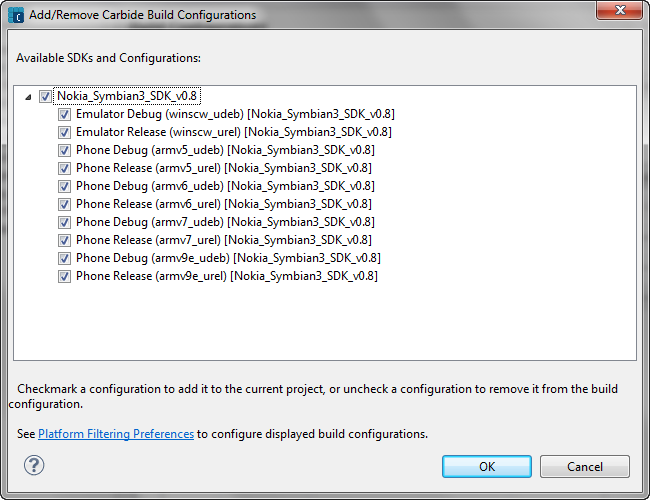
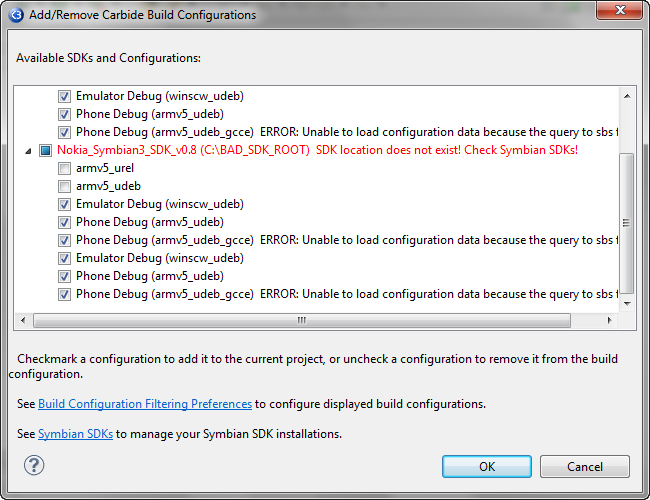
BUG 11531 - update to build configuration items --DRAFT--

diff --git a/core/com.nokia.carbide.cpp.doc.user/html/tasks/projects/prj_new_build_config.htm b/core/com.nokia.carbide.cpp.doc.user/html/tasks/projects/prj_new_build_config.htm
@@ -6,25 +6,60 @@
 <meta name="LASTUPDATED" content="06/17/05 11:09:43" />
 <title>Adding/Removing Build Configurations</title>
 <link rel="StyleSheet" href="../../../book.css" type="text/css"/>
+<style type="text/css">
+<!--
+.style1 {
+	color: #EE0000;
+	font-weight: bold;
+}
+-->
+</style>
 </head>
 <body >
 <h2>Adding/Removing Build Configurations</h2>
-<p>Use the <b>Properties for &lt;<em>project_name</em>&gt;</b> window to manage the active or build configurations associated with a project. In the <b>Active Configuration</b> group you can select which build configuration is current active as well as choose which build configurations appear in the Build Configurations sub-menu as choices. </p>
+<p>Use the <b>Add/Remove Carbide Build Configurations </b>dialog  to manage the build configurations associated with a project. The choices presented in this dialog are the result of installed <a href="../../reference/pref_carb_symbian_sdk.htm">Symbian SDKs</a> and the variant builds associated with them as chosen in the <a href="../sdks/sdk_platform_filter.htm">Configuration Filtering Preferences</a> panel.</p>
 <div class="step">
   <h4>Adding/Removing a Build Configuration </h4>
   <ol>
-    <li>Open Carbide Build Configuration panel in the project's Properties window
-      <p>Select the <b>Project &gt; Properties</b> menu item or right-click the project name in the <a href="../../reference/view_proj_explorer.htm">Project Explorer</a> view, then select <b>Properties</b>. The project <b>Properties for <em>&lt;project_name&gt;</em></b> window appears. Then select Carbide Build Configurations. </p>    
-      <p align="center"><img src="images/panel_active_config.png" width="801" height="350" alt=""/></p>
-      <p class="figure">Figure 1 - Active Configuration group in project Properties window </p></li>
-    <li>Click Manage... in the Active Configuration group (Figure 1)
-      <p>The <b>Add/Remove Carbide Build Configuration </b> window appears (Figure 2). Use the <b>Add/Remove Carbide Build Configuration</b> window to manage the build configurations that appear on the Build Configurations sub-menu for the current project. You can also  click the <b>Manage configurations for the current project</b> icon (<img src="images/icon_manage_project_configs.png" width="16" height="16" align="absmiddle">) on the toolbar to open this dialog. </p>
+    <li>With a project selected in the Project Explorer view choose one of the following to open the <strong>Add/Remove Carbide Build Configuration</strong> window:<br>
+        <br>
     </li>
-    </ol>
+      <table width="800" border="0" cellpadding="2" cellspacing="0">
+          <tr valign="top">
+              <th width="221" class="Cell"><div align="left">From the ...</div></th>
+              <th width="584" class="Cell"><div align="left">Do the following...</div></th>
+          </tr>
+          <tr valign="top">
+              <td class="Cell"><b>Menu bar</b></td>
+              <td class="Cell"> Click the <strong>Project &gt; Manage Configuration &gt; Manage...</strong> menu option.</td>
+          </tr>
+          <tr valign="top">
+              <td class="Cell"><b>Toolbar</b></td>
+              <td class="Cell">Click the <b>Manage configurations for the current project</b> icon (<img src="images/icon_manage_project_configs.png" alt="" width="16" height="16" align="absmiddle">) on the toolbar</td>
+          </tr>
+          <tr valign="top">
+              <td class="Cell"><b>Project</b></td>
+              <td class="Cell"><ol>
+                  <li>Right-click the project              
+                  <li>Select Properties</li>
+                  <li>Click Carbide.c++ &gt; Build Configurations in the properties list.</li>
+                  <li>Click Manage... in the Active Configuration section.</li>
+              </ol></td>
+          </tr>
+      </table>
+      <br>
+      <p>The <b>Add/Remove Carbide Build Configurations </b> window appears (Figure 1).</p>
+      <li>Select the build configurations used by the project
+          <p>Use the <b>Add/Remove Carbide Build Configuration</b> window to manage the build configurations for the current project. Checkmarked items appear in the build configuration list while unchecked items do not.</p>
+          <p>SDKs or build configurations shown in <span class="style1">RED</span> indicate a problem with that item. An error message is appended to the item to aid you in solving the problem.</p>
+      </li>
   <p align="center"><img src="images/wnd_add_build_config_manager.png" width="650" height="500" alt="" /></p>
-  <blockquote>
-      <p class="figure">Figure 2 - Window for managing build configurations</p>
-  </blockquote>
+  <p class="figure">Figure 1 - Window for managing build configurations<br>
+      </p>
+      <p>Click the <a href="../sdks/sdk_platform_filter.htm">Build Configuration Filtering Preferences</a> link to set which SDKs and configurations should appear in the dialog.</p>
+      <p>Click the <a href="../../reference/pref_carb_symbian_sdk.htm">Symbian SDK</a> link to open the <a href="../../reference/pref_carb_symbian_sdk.htm"></a> related preference panel.</p>
+      <li>Click OK to set the selected projects  build configurations.</li>
+    </ol>
 </div>
 <h5>Related concepts</h5>
 <ul>

diff --git a/core/com.nokia.carbide.cpp.doc.user/html/reference/pref_carb_symbian_sdk.htm b/core/com.nokia.carbide.cpp.doc.user/html/reference/pref_carb_symbian_sdk.htm
@@ -15,13 +15,13 @@
 </head>
    <body>
 <h2>Symbian SDKs</h2>
-Use the <img src="../images/command_link.png" border="0" alt="" /> <a class="command-link" href='javascript:executeCommand("org.eclipse.ui.window.preferences(preferencePageId=com.nokia.carbide.cpp.sdk.ui.sdk_prefs_page)")'>
-Symbian SDK</a> page in the <b>Preferences</b> window to control which installed SDKs are available to projects during an import.  To
-	 access SDK preferences preference panel, select <b>Window &gt; Preferences &gt; Carbide.c++ &gt; Symbian SDKs</b>. 
-   <p class="note"><b>NOTE</b> There must be at least one recognized SDK installed before you can create a project.  If the SDK you have installed is not recognized, you may still be able to add it to the Discovered Symbian OS SDK list. See <a href="../tasks/start/carbide_requirements.htm">Carbide.c++ Requirements</a> for a list of supported SDKs. </p>
-   <p class="note"><b>NOTE</b> This panel serves as a <span class="code">devices.xml</span> file editor. The <span class="code">devices.xml</span> file stores information about the installed SDKs used for Symbian OS development.</p>
-
-	  <p align="center" class="Image"><img src="images/prefs_symbian_sdks.png" alt="Symbian SDKs preference panel" width="719" height="525"></p>
+<p>Use the <img src="../images/command_link.png" border="0" alt="" /> <a class="command-link" href='javascript:executeCommand("org.eclipse.ui.window.preferences(preferencePageId=com.nokia.carbide.cpp.sdk.ui.sdk_prefs_page)")'>
+   Symbian SDKs</a> page in the <b>Preferences</b> window to view which installed SDKs are available to projects during an import. If the SDK is properly configured for SBSv2 you may never need to view this preference panel.</p>
+<p>One thing to note is that Carbde.c++ no longer requires the <span class="code">devices.xml</span> file to recognize and use SDKs. Insteads it now caches this information for later use. If the SDK contains an entry for the <span class="code">devices.xml</span> Carbide will use it.</p>
+<p>To
+    access <strong>Symbian SDKs</strong> preferences preference panel, select <b>Window &gt; Preferences &gt; Carbide.c++ &gt; Symbian SDKs</b>. </p>
+<p class="note"><b>NOTE</b> There must be at least one recognized SDK installed before you can create a project.  If the SDK you have installed is not recognized, you may still be able to add it to the Discovered Symbian OS SDK list. See <a href="../tasks/start/carbide_requirements.htm">Carbide.c++ Requirements</a> for a list of supported SDKs. </p>
+   <p align="center" class="Image"><img src="images/prefs_symbian_sdks.png" alt="Symbian SDKs preference panel" width="719" height="525"></p>
      <p align="center" class="figure">Figure 1. Symbian SDKs preference panel </p>
    <table width="800" border="0" cellpadding="2" cellspacing="0">
    <tr valign="top"><th width="221" class="Cell">Name</th><th width="584" class="Cell">Function</th></tr>
@@ -46,7 +46,7 @@ Symbian SDK</a> page in the <b>Preferences</b> window to control which installed
      </tr>
          <tr valign="top">
            <td class="Cell"><p><b>Rescan All SDKs</b></p>           </td>
-           <td class="Cell"><p>Click to <a href="../tasks/sdks/sdk_search.htm">rescan</a>  the drive  for newly installed SDKs. The devices.xml file is scanned for SDKs and the list of available SDKs is updated if the devices.xml file has changed.</p>
+           <td class="Cell"><p>Click to <a href="../tasks/sdks/sdk_search.htm">rescan</a>  the drive  for newly installed SDKs. </p>
              <p class="note"><b>NOTE</b> Carbide.c++ scans for available SDKs each time it is started.</p></td>
         </tr>
    </table>

diff --git a/core/com.nokia.carbide.cpp.doc.user/html/tasks/sdks/sdk_platform_filter.htm b/core/com.nokia.carbide.cpp.doc.user/html/tasks/sdks/sdk_platform_filter.htm
@@ -11,7 +11,7 @@
 <body >
 <h2> Build Configuration Filtering </h2>
 <p> Use the <img src="../../images/command_link.png" border="0" alt="" /> <a class="command-link" href='javascript:executeCommand("org.eclipse.ui.window.preferences(preferencePageId=com.nokia.carbide.cpp.sdk.ui.sdk_platform_filter_page)")'>
-Build Configuration Filtering</a> preference panel in the <b>Preferences</b> window to select which platforms are visible when creating new projects or build configurations. </p>
+Build Configuration Filtering</a> preference panel in the <b>Preferences</b> window to select which platforms are visible when creating new projects or build configurations. The results of this preference panel are used to populate the </p>
 <h3>SBSv2 tab</h3>
 <p>Use the <strong>SBSv2</strong> tab to select  configurations for that build system. SBSv2 is the prefered build system for the most current SDKs.</p>
 <p align="center"><img src="images/wnd_sdk_platform_filter_sbsv2.png" alt="SBSv2 tab" width="719" height="646"></p>
@@ -24,20 +24,20 @@ Build Configuration Filtering</a> preference panel in the <b>Preferences</b> win
     </tr>
     <tr>
         <td><b>Default Configurations</b></td>
-        <td><p>Select platform build targets to be displayed for OS 9.5 and later when creating new projects and build configurations. BSF&rsquo;s  are gone in SBSv2.&nbsp; All build  configurations (platform/target), including the built-in platforms (WISNCW,  ARMV5), are declared in xml files in the <span class="code">\sbs\lib\config</span> directory.</p>
-            </td>
+        <td><p>The result of a Raptor query (<span class="code">--query=aliases</span>) to show every supported aliases in every installed SDK. The aliases marked with a checkmark are available immediately as a selectable build configuration.</p>
+        </td>
     </tr>
     <tr>
         <td><strong>Product Variant Configurations</strong></td>
-        <td>Lists all the known variants created for the selected build configuration.</td>
+        <td>The result of the a Raptor query (<span class="code">--query=product</span>) to show the supported product variants available for the selected configuration. This list is not displayed if none of the installed SDKs support variant builds.</td>
     </tr>
     <tr>
         <td><strong>Rescan Default Configurations</strong></td>
-        <td>Click to rescan for sbs and build configurations in the installed SDKs.</td>
+        <td>Click to rescan for sbs and build configurations in all installed SDKs.</td>
     </tr>
     <tr>
         <td><strong>Add Variant</strong></td>
-        <td>Adds a variant build to the selected build configuration. SDK must support variant builds for this to work.</td>
+        <td>Opens the <strong>Add a custom product configuration</strong> dialog to create a variant build for the selected build configuration. The SDK must support variant builds for this to work.</td>
     </tr>
     <tr>
         <td><strong>Remove Variant</strong></td>
@@ -79,7 +79,7 @@ Build Configuration Filtering</a> preference panel in the <b>Preferences</b> win
       </ul>    </td>
   </tr>
 </table>
-<p align="left" class="note"><strong>NOTE</strong> EKA1 platform configurations are no longer supported by Carbide.</p>
+<p align="left" class="note"><strong>NOTE</strong> EKA1 platform configurations are not supported by Carbide.</p>
 <h4>Related references </h4>
 <ul>
   <li><a href="../WorkingwithSDKs.html">Working with SDKs</a></li>

diff --git a/core/com.nokia.carbide.cpp.doc.user/html/tasks/projects/prj_creating_sis_file.htm b/core/com.nokia.carbide.cpp.doc.user/html/tasks/projects/prj_creating_sis_file.htm
@@ -21,7 +21,7 @@
 <ul>
   <li>For non-Platform Security SDKs (pre-OS 9.x), <span class="code">makesis</span> is called</li>
 </ul>
-<p>Depending upon which tool is used, you will  need to complete some entries in the<a href="../../reference/build_properties/pane_build_config_sis.htm"> SIS Builder</a> pane of the Carbide Build Configurations window of the project Properties dialog box. You can access this pane by selecting a project in the Project Explorer view and select <b>Project &gt; Properties</b> &gt;  <b>Carbide Build Configurations</b>. Fill in the necessary information to add PKG files to the project for downloading. </p>
+<p>Depending upon which tool is used, you will  need to complete some entries in the<a href="../../reference/build_properties/pane_build_config_sis.htm"> SIS Builder</a> pane of the Carbide Build Configurations panel of the project Properties dialog box. You can access this pane by selecting a project in the Project Explorer view and select <b>Project &gt; Properties</b> &gt;  <b>Carbide Build Configurations</b>. Fill in the necessary information to add PKG files to the project for downloading. </p>
 <table width="88%"  border="0" cellpadding="2" cellspacing="0">
   <tr>
     <th width="19%" scope="col">Tool</th>

diff --git a/core/com.nokia.carbide.cpp.doc.user/html/tasks/sdks/sdk_search.htm b/core/com.nokia.carbide.cpp.doc.user/html/tasks/sdks/sdk_search.htm
@@ -10,7 +10,7 @@
 <body >
 <h2>Searching for SDKs</h2>
 <p>  Use the <a href="../../reference/pref_carb_sdk_preference.html">Symbian SDKs panel</a> to search for installed Symbian OS SDKs.</p>
-<p align="center"><img src="../../images/SDKPreferences.png" width="740" height="546" /></p>
+<p align="center"><img src="../../images/SDKPreferences.png" width="696" height="583" /></p>
 <p class="figure">Figure 1. Symbian SDKs panel</p>
 <div class="step">
   <h4>Searching for SDKs </h4>

diff --git a/core/com.nokia.carbide.cpp.doc.user/html/tasks/projects/prj_set_build_tgt.htm b/core/com.nokia.carbide.cpp.doc.user/html/tasks/projects/prj_set_build_tgt.htm
@@ -31,7 +31,7 @@
       </ul>
     </li>
     <blockquote>
-      <p align="center" class="figure"><img src="images/menu_build_config_select_tgt_01.png" width="734" height="240" /><br />
+      <p align="center" class="figure"><img src="images/menu_build_config_select_tgt_01.png" width="921" height="276" /><br />
       Figure 2 - Build Configuration menu</p>
     </blockquote>
     <li>From the project's context menu 

diff --git a/core/com.nokia.carbide.cpp.doc.user/book.css b/core/com.nokia.carbide.cpp.doc.user/book.css
@@ -12,7 +12,7 @@ html {
 /* 20091007 added verdana and ariel to list to match SFO website fonts choices */
 body, p, table, li {
 	font-family: Verdana, Ariel, Helvetica, sans-serif;
-	font-size: 0.9em;
+	font-size: 1.0em;
 	font-weight: normal;
 }
 
